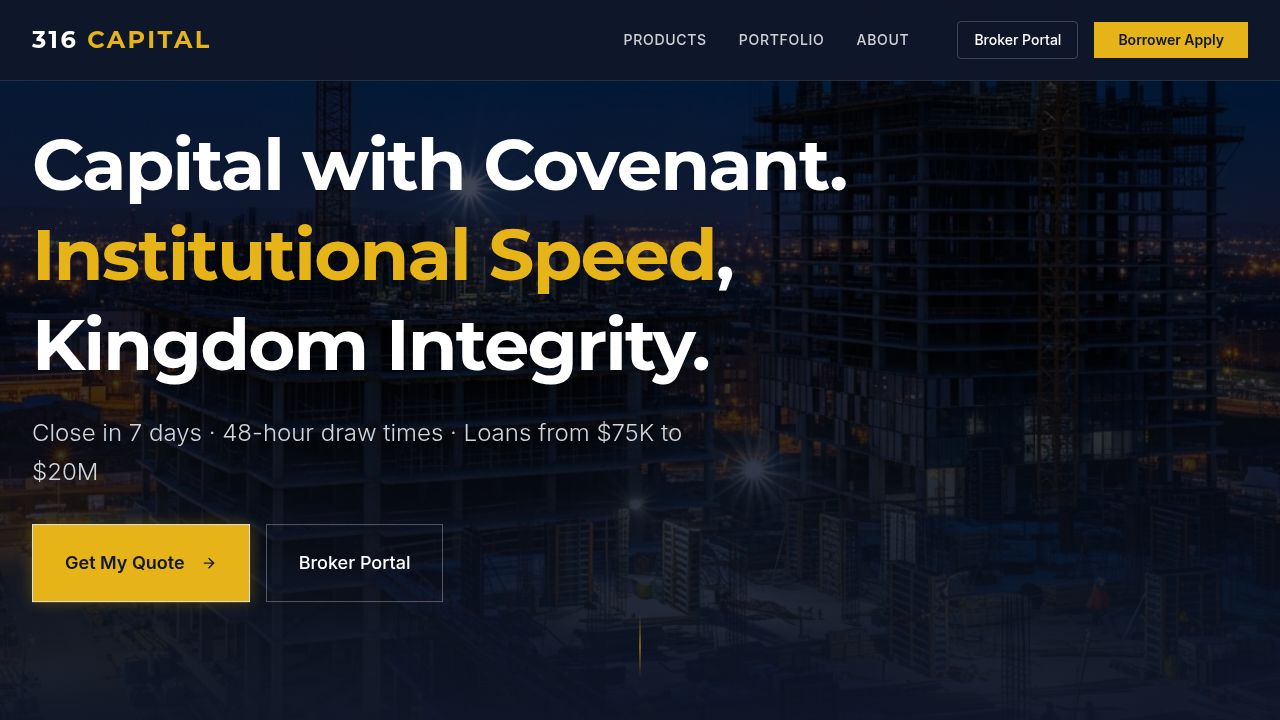
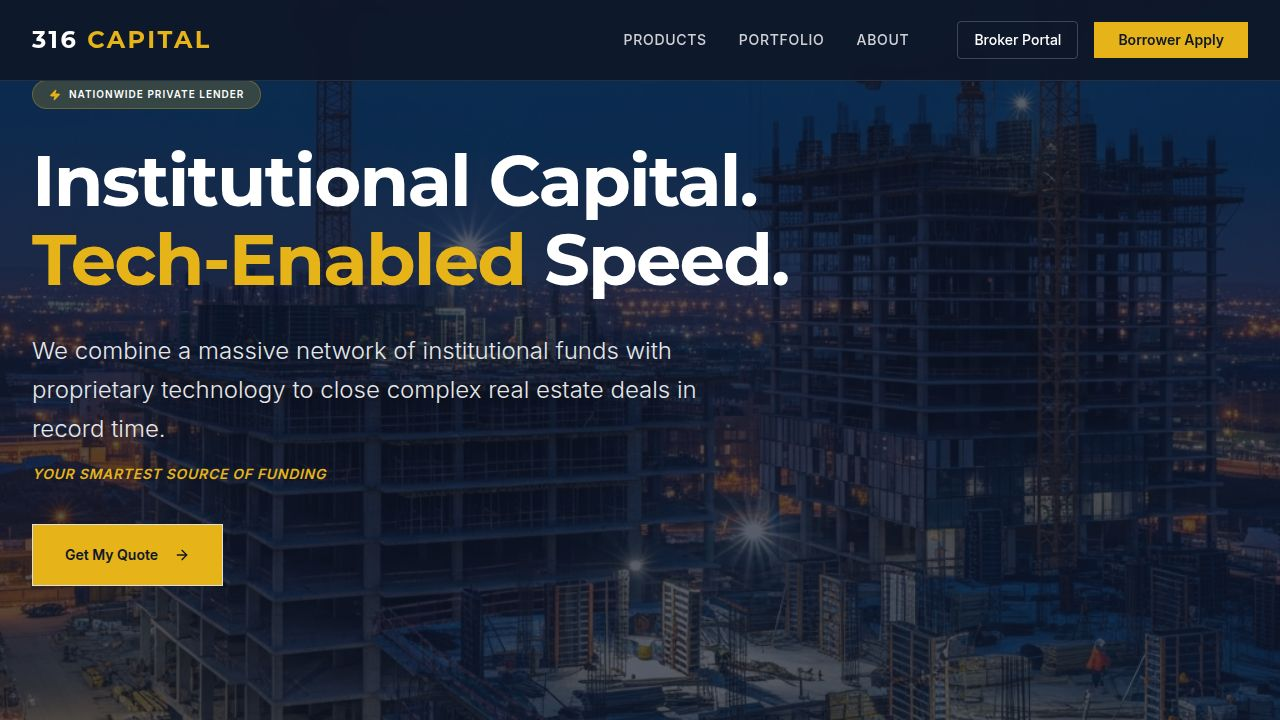
Fix layout issue where 'Get My Quote' CTA overlaps with stats Adjust hero section height and add padding to prevent content overlap.
Replit-Commit-Author: Agent
Replit-Commit-Session-Id: fc1e36cf-c43f-4053-b00a-721b8596a49e
Replit-Commit-Checkpoint-Type: full_checkpoint
Replit-Commit-Event-Id: 73b6db34-dea3-4375-9b0f-d2f2d83f0bdc
Replit-Commit-Screenshot-Url: https://storage.googleapis.com/screenshot-production-us-central1/8a4d1e78-76b3-4b1b-9b1b-6099a4dc3aaa/fc1e36cf-c43f-4053-b00a-721b8596a49e/m5aqB8x
Replit-Helium-Checkpoint-Created: true

diff --git a/client/src/components/home/hero.tsx b/client/src/components/home/hero.tsx
@@ -4,7 +4,7 @@ import heroBg from "@assets/generated_images/cinematic_construction_site_aerial.
 
 export function Hero() {
   return (
-    <div className="relative h-screen min-h-[700px] flex items-center justify-center overflow-hidden">
+    <div className="relative min-h-[85vh] flex items-center justify-center overflow-hidden pb-32">
       {/* Background Image */}
       <div className="absolute inset-0 z-0">
         <img 
@@ -15,7 +15,7 @@ export function Hero() {
         <div className="absolute inset-0 bg-navy-950/70" />
       </div>
 
-      <div className="relative z-10 max-w-7xl mx-auto px-4 sm:px-6 lg:px-8 w-full">
+      <div className="relative z-10 max-w-7xl mx-auto px-4 sm:px-6 lg:px-8 w-full py-20">
         <div className="max-w-4xl">
           <div className="inline-flex items-center space-x-2 bg-gold-500/20 border border-gold-500/30 px-4 py-1.5 mb-8 rounded-full">
             <Zap className="h-3 w-3 text-gold-500 fill-current" />
@@ -34,8 +34,8 @@ export function Hero() {
             Your smartest source of funding
           </p>
           
-          <div className="flex flex-col sm:flex-row gap-4">
-            <Button size="sm" className="bg-gold-500 hover:bg-gold-600 text-navy-950 font-bold text-sm px-6 py-4 rounded-none transition-all hover:scale-105">
+          <div className="flex flex-col sm:flex-row gap-4 mb-12">
+            <Button size="sm" className="bg-gold-500 hover:bg-gold-600 text-navy-950 font-bold text-sm px-8 py-5 rounded-none transition-all hover:scale-105">
               Get My Quote
               <ArrowRight className="ml-2 h-4 w-4" />
             </Button>
@@ -44,7 +44,7 @@ export function Hero() {
       </div>
       
       {/* Stats overlay */}
-      <div className="absolute bottom-0 left-0 right-0 bg-navy-950/80 backdrop-blur-md border-t border-white/10 py-8">
+      <div className="absolute bottom-0 left-0 right-0 bg-navy-950/80 backdrop-blur-md border-t border-white/10 py-6">
         <div className="max-w-7xl mx-auto px-4 sm:px-6 lg:px-8 grid grid-cols-2 md:grid-cols-4 gap-8">
            <div className="text-center md:text-left">
               <p className="text-2xl font-bold text-white">$4.2B+</p>
